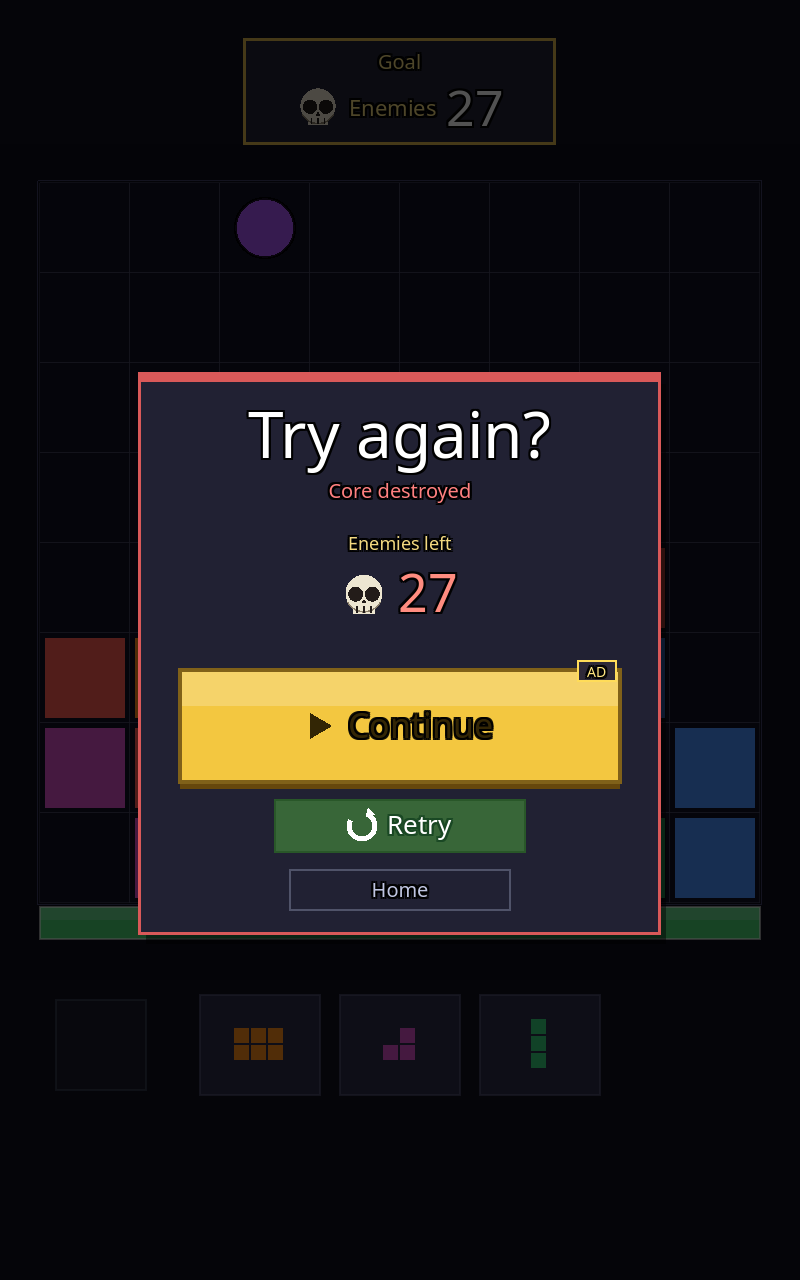
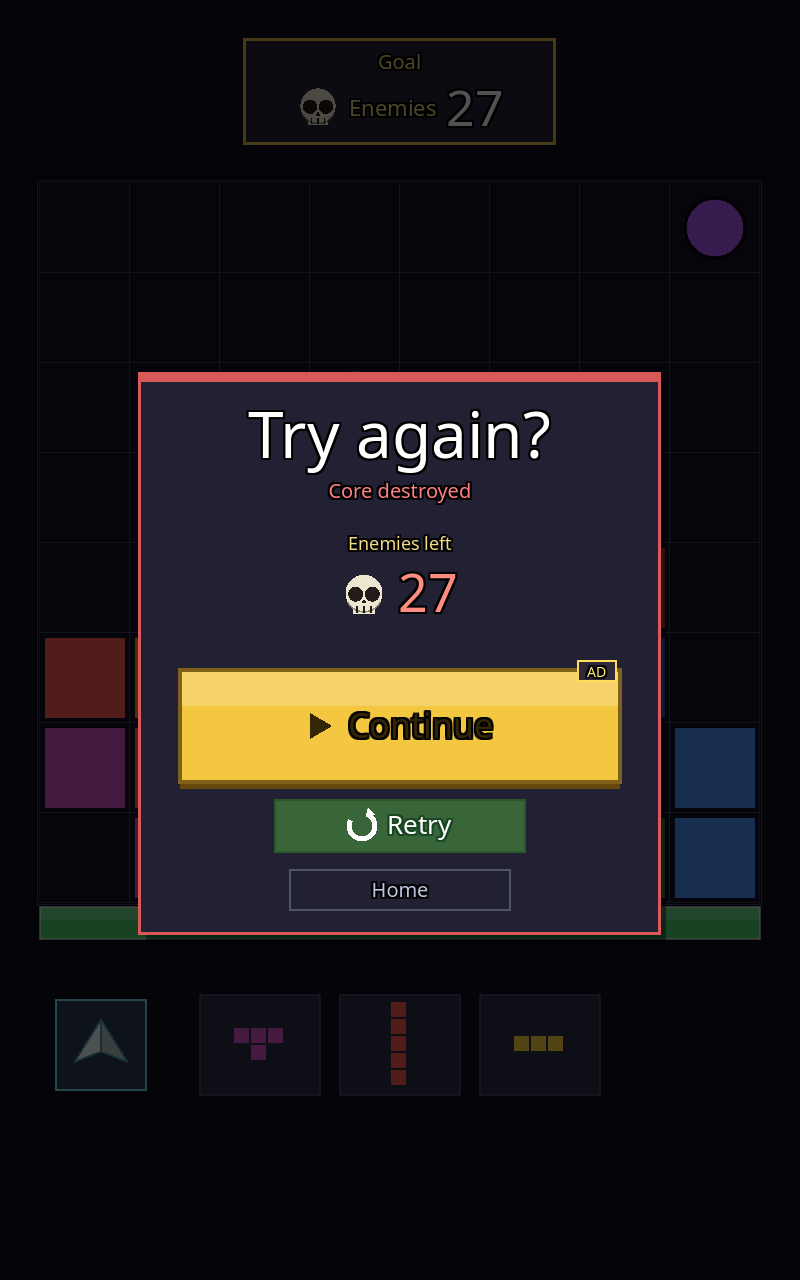
docs: UI 의뢰서에 적 리소스 추가 + 비행기 슬롯 캡처 — "적은 절차적" 판단 철회
**틀린 판단을 고친다.** 어제 "적 7종은 절차적이라 정적 이미지로 대체 불가"로
통째로 제외했는데, 렌더 코드를 뜯어보니 **7종 중 5종이 완전히 정적인 도형**이다:
basic(원) · swarm(원 3개) · fast(화살촉) · tank(판금+베벨+이음선+리벳 4개) ·
thief(후드+복면 띠+자루). 파라메트릭은 bomb(도화선·맥동 후광)과 split(분열선
근접 시 벌어짐)뿐이고 그마저 **몸통은 정적**이라 효과만 코드로 남기면 된다.

우선순위는 `stage_data.gd`의 **등장 순서**로 갈랐다 — 심사위원은 st1~4만 본다:
- basic(st1 100%) → **P0**. 블록과 함께 첫 화면의 전부인데 원 하나라 공수 S
- swarm(st2) · fast(st3) → **P1**
- bomb(st6) · tank(st7) · split(st9) · thief(st14) → **P2**. 잘 만들어도 안 보인다

HP 감소 틴트·전진 링은 코드가 유지하므로 **밝은 기준 상태 1장씩만** 받는다.

캡처: `plane_held` + 보드 `etype:"plane"` 픽업을 주입해 종이비행기의 두 쓰임을
한 화면에 담고, 90×90이라 등배로 안 읽히는 슬롯은 2배 크롭을 따로 생성
(`08_plane_slot.png`). 02/05/06이 함께 바뀐 건 비행기 상태가 이후 캡처까지
이어져서다 — 더 대표성 있는 상태라 그대로 둔다.

diff --git a/docs/UI_ART_PLAN.md b/docs/UI_ART_PLAN.md
@@ -10,7 +10,7 @@
 
 | | 날짜 | 내용 |
 |---|---|---|
-| **P0 납품** | **8/4 (화)** | 블록 · 패널 · 주버튼 — 이것만 바뀌어도 화면 인상이 갈린다 |
+| **P0 납품** | **8/4 (화)** | 블록 · 적(basic) · 패널 · 주버튼 — 이것만 바뀌어도 화면 인상이 갈린다 |
 | **P1 납품** | **8/6 (목)** | 나머지 — 이 날이 **디자이너 최종 납품일** |
 | 배선·검수 | 8/7 (금) | 개발이 전량 붙이고 확대 검수 |
 | 동결·제출 | 8/8 (토) | 예비일 |
@@ -60,7 +60,13 @@
 - 중앙: 8×8 보드 (셀 90px, 보드 전체 720×720, 좌우 여백 40px)
 - 보드 하단: 거점 HP 바 (`Core 5/5`)
 - 하단: 조각 트레이 3슬롯 — 여기서 조각을 끌어다 보드에 놓는다
-- 좌하단: **종이비행기 보유 슬롯**(90×90). 캡처엔 안 보이지만 게임 중 보드에 픽업으로 떨어지고, 집으면 이 슬롯에 들어가며 탭 두 번(조준→발사)으로 쓴다. **세상에 한 대뿐인 특별한 물건**이라는 인상이 필요하다
+- 좌하단: **종이비행기 보유 슬롯**(90×90). 보드에 픽업으로 떨어지고, 집으면 이 슬롯에 들어가며 탭 두 번(조준→발사)으로 쓴다. **세상에 한 대뿐인 특별한 물건**이라는 인상이 필요하다
+
+**종이비행기 — 보유 슬롯(좌) + 조각 트레이 3슬롯(우), 2배 확대:**
+
+![비행기 슬롯](design/current/08_plane_slot.png)
+
+위 인게임 캡처의 보드 한가운데(짙은 청록 원 안)에 있는 것이 **보드 픽업** 상태고, 이 확대본 왼쪽이 **집은 뒤 슬롯**에 들어간 모습이다. 트레이 조각들과 나란히 앉아 “손에 든 것들” 한 줄로 읽히게 돼 있다 — 슬롯 테두리가 청록인 것도 조각 슬롯과 구분하려는 장치다. 지금은 흰 삼각형 두 장을 접어 붙인 형태뿐이라 “특별한 한 대”로는 약하다.
 
 **블록을 3배 확대한 모습:**
 
@@ -124,6 +130,7 @@
 | **패널 (9-slice)** | 결과·설정 | 임의 크기 + **마진 4방향 px 명시** | M | 결과 팝업과 설정 모달이 **같은 부품을 공유**한다. 다크 톤 |
 | **패널 상단 강조바** | 결과·설정 | 9-slice 또는 단색 지정 | S | 클리어=금색 / 실패=붉은색으로 **색만** 바뀐다 |
 | **큰 버튼 (9-slice)** | 결과·허브 | 상태 3종: 기본·눌림·비활성 | M | 우선 **초록(진행)** 과 **금색(광고 이어하기)** 2색. 나머지 색은 P1 |
+| **적 — basic** | 인게임 | 180×180 | **S** | **스테이지1 적의 100%.** 블록과 함께 심사위원이 보는 첫 화면의 전부다. 현재는 바이올렛 원 하나. 공수가 작고 노출이 최대라 P0에 넣었다. HP가 닳으면 코드가 어둡게 틴트하니 **밝은 기준 상태 1장**만 |
 
 ### 🟡 P1 — 8/6(목) 납품 · **디자이너 최종 납품일**
 
@@ -140,6 +147,7 @@
 | **스테이지 타일** | 스테이지 | 상태 3종: 클리어 · 현재 · 잠김 | M | 진행 화면의 14개 타일. 현재 위치는 금색 테두리로 구분 중 |
 | 뒤로가기 버튼 | 스테이지 | 상태 2종 | S | 좌상단 Home |
 | **튜토리얼 말풍선** | 인게임(S1) | 9-slice 알약형 (높이 36 기준) | S | 스테이지1 온보딩 지시문 판. **대회 심사위원은 전원 신규 플레이어라 이게 첫인상이다.** 지시(노랑)와 손해 사건(붉은색) 2색으로 쓰인다 — 배경 판은 **반드시 불투명**(뒤에 보드가 비치면 글자가 안 읽힌다) |
+| **적 — swarm · fast** | 인게임 | 각 180×180 | S | **st2·st3에서 등장** = 심사위원이 거의 확실히 본다. swarm=라임 작은 원 3개(군집), fast=시안 화살촉(아래 향함, 속도감). 둘 다 정적 형태다 |
 
 ### ⚪ P2 — 이번 범위 제외 (대회 후)
 
@@ -150,10 +158,30 @@
 | 토글 스위치 (ON/OFF) | 설정 모달 전용 = 노출 최소 |
 | 인게임 로고 | 공수 L에 별도 논의가 필요하다(§7-3). 6일 안엔 무리 |
 | 보스 카드 | 보스 스테이지 미완성 — 기획이 먼저다 |
+| **적 — tank · thief** | 정적 형태라 스프라이트로 바꿀 수 있지만 **st7 · st14 등장**이라 심사 플레이에선 거의 안 보인다. 대회 후 |
+| **적 — bomb · split** | 몸통은 정적이나 **효과가 파라메트릭**이라 손이 더 간다(아래) + 등장도 늦다(st6 · st9) |
+
+### 적 리소스에 대하여
+
+처음엔 "적은 절차적이라 이미지로 대체 불가"라고 통째로 뺐는데 **틀렸다.** 렌더 코드를 뜯어보니 **7종 중 5종이 완전히 정적인 도형**이다.
+
+| 적 | 첫 등장 | 지금 그려지는 방식 | 스프라이트 대체 |
+|---|---|---|---|
+| **basic** | st1 (100%) | 바이올렛 원 + 외곽선 | ✅ 완전 대체 → **P0** |
+| **swarm** | st2 (60%) | 라임 작은 원 3개 | ✅ 완전 대체 → **P1** |
+| **fast** | st3 (50%) | 시안 화살촉 삼각형 | ✅ 완전 대체 → **P1** |
+| bomb | st6 (15%) | 숯색 구 + 도화선 + 맥동 후광 + 카운트다운 | ⚠ **몸통만** — 후광·도화선·숫자는 긴급도에 따라 매 프레임 변해 코드가 유지 |
+| tank | st7 (55%) | 판금 + 베벨 + 이음선 2줄 + 리벳 4개 | ✅ 완전 대체 (등장이 늦어 P2) |
+| split | st9 (40%) | 쌍둥이 blob — **분열선에 가까울수록 벌어지고 떨림** | ⚠ **분열 전/후 2장** — 벌어지는 정도는 코드가 계산 |
+| thief | st14 | 후드 원 + 복면 띠 + 자루 | ✅ 완전 대체 (등장이 늦어 P2) |
+
+**우선순위는 "등장 순서"로 갈랐다.** 대회 심사위원은 스테이지 1~4 정도를 볼 텐데, 거기 나오는 건 basic · swarm · fast 셋뿐이고 **셋 다 정적이라 공수가 작다.** 늦게 나오는 넷은 잘 만들어도 심사에서 안 보인다.
+
+**공통 규칙** — 모든 적은 HP가 닳으면 코드가 어둡게 틴트하고, 전진할 때 밝은 링이 잠깐 덧그려진다. 그러니 **밝은 기준 상태 1장씩만** 주시면 된다. 손상·전진 상태는 만들지 않으셔도 됩니다.
 
 ### 범위 밖 (이번 회차에서 아예 다루지 않음)
 
-**적 7종과 연출 효과**(줄 터짐 · 폭죽 · 거점 붕괴 · 콤보 텍스트 등)는 제외한다. 매 프레임 값이 바뀌며 절차적으로 생성·애니메이션되는 요소라 정적 이미지로 대체되지 않는다. 별도 회차가 맞다.
+**연출 효과**(줄 터짐 · 폭죽 · 거점 붕괴 · 콤보 텍스트 · 로켓 · 조준 링)는 제외한다. 매 프레임 값이 바뀌며 절차적으로 생성·애니메이션되는 요소라 정적 이미지로 대체되지 않는다. 별도 회차가 맞다.
 
 ---
 
@@ -187,8 +215,8 @@
 |---|---|---|
 | **8/2 (일)** | **§7-1 방향 결정**(블록을 기하학이냐 질감이냐) + 형식 합의 → 블록 착수 | 붙일 자리 준비(임포트 설정·틴트 파이프라인·가산 블렌드 패스) |
 | **8/3 (월)** | 블록 1차 시안 | 받는 즉시 배선 → **확대 스크린샷 회신** |
-| **8/4 (화)** | 🔴 **P0 납품** — 블록 확정 + 패널 + 큰 버튼 | 블록·패널·버튼 배선 |
-| **8/5 (수)** | P1 착수 — 아이콘 8종 + 비행기 | 결과 팝업·설정 화면 배선 + 검수 회신 |
+| **8/4 (화)** | 🔴 **P0 납품** — 블록 확정 + 적(basic) + 패널 + 큰 버튼 | 블록·적·패널·버튼 배선 |
+| **8/5 (수)** | P1 착수 — 아이콘 8종 + 비행기 + 적(swarm·fast) | 결과 팝업·설정 화면 배선 + 검수 회신 |
 | **8/6 (목)** | 🟡 **P1 납품 = 최종 납품일** — 잔여 전량 | 아이콘·카드·타일·HP바 배선 |
 | **8/7 (금)** | 검수 대응(수정 요청 반영) | **전량 배선 완료** + 전 화면 확대 검수 |
 | **8/8 (토)** | — | 예비일 · 동결 · 제출 빌드 |
@@ -240,6 +268,7 @@
 - **트레이 프리뷰 17px**: 보드 셀은 90px 고정이라 문제없지만 트레이 미리보기는 셀 17px이다(5.3배 축소). 여기는 스프라이트를 쓰지 말고 **현재의 단순 사각형 렌더를 유지**하는 편이 낫다(LOD). 스냅백 연출이 90→17을 연속 보간하는 것도 같은 이유로 주의.
 - **백열 연출**: 줄이 터지기 직전 블록이 흰색으로 달아오른다. `modulate`는 곱셈이라 밝게 못 만든다 → **가산 블렌드 오버레이 패스**를 따로 둘 것.
 - **연출 재배선 목록**: 충전 시 부풀기 · 소멸 잔상 · 거점 붕괴 낙하 · 막힘사 페이드. 전부 "사각형+색" 전제로 짜여 있어 스프라이트로 바꾸면 각각 tint/scale/alpha로 번역해야 한다.
+- **적 틴트는 코드가 유지**: `basic`은 HP 비율로 `lerp`해 어두워지고, 전진 직후엔 밝은 링이 덧그려진다(`step_beat`). 스프라이트는 밝은 기준 1장만 받고 이 둘은 modulate/오버레이로 남긴다.
 - **성능은 무관**: 프레임당 블록 쿼드가 최대 84개(보드 64 + 트레이 15 + 손에 든 조각 5)다. 텍스처를 붙여도 측정 노이즈 수준이다.
 - **비행기는 3곳에서 그려진다**: `_draw_plane_icon`이 ① 보드 픽업(`CELL*0.60`) ② 좌하단 보유 슬롯(90×90, `_plane_slot_rect`) ③ 발사 연출에 쓰인다. 한 장으로 셋을 다 덮되 크기 차가 크니 확인이 필요하다.
 - **작업 브랜치 주의**: 이 문서와 캡처는 **트렁크(`main`)** 기준이다. `worktrees/juice`는 main보다 20커밋 뒤처져 있고 자기 커밋이 없다 — **아트 배선은 main에서 하거나, juice를 먼저 main으로 FF할 것.**
